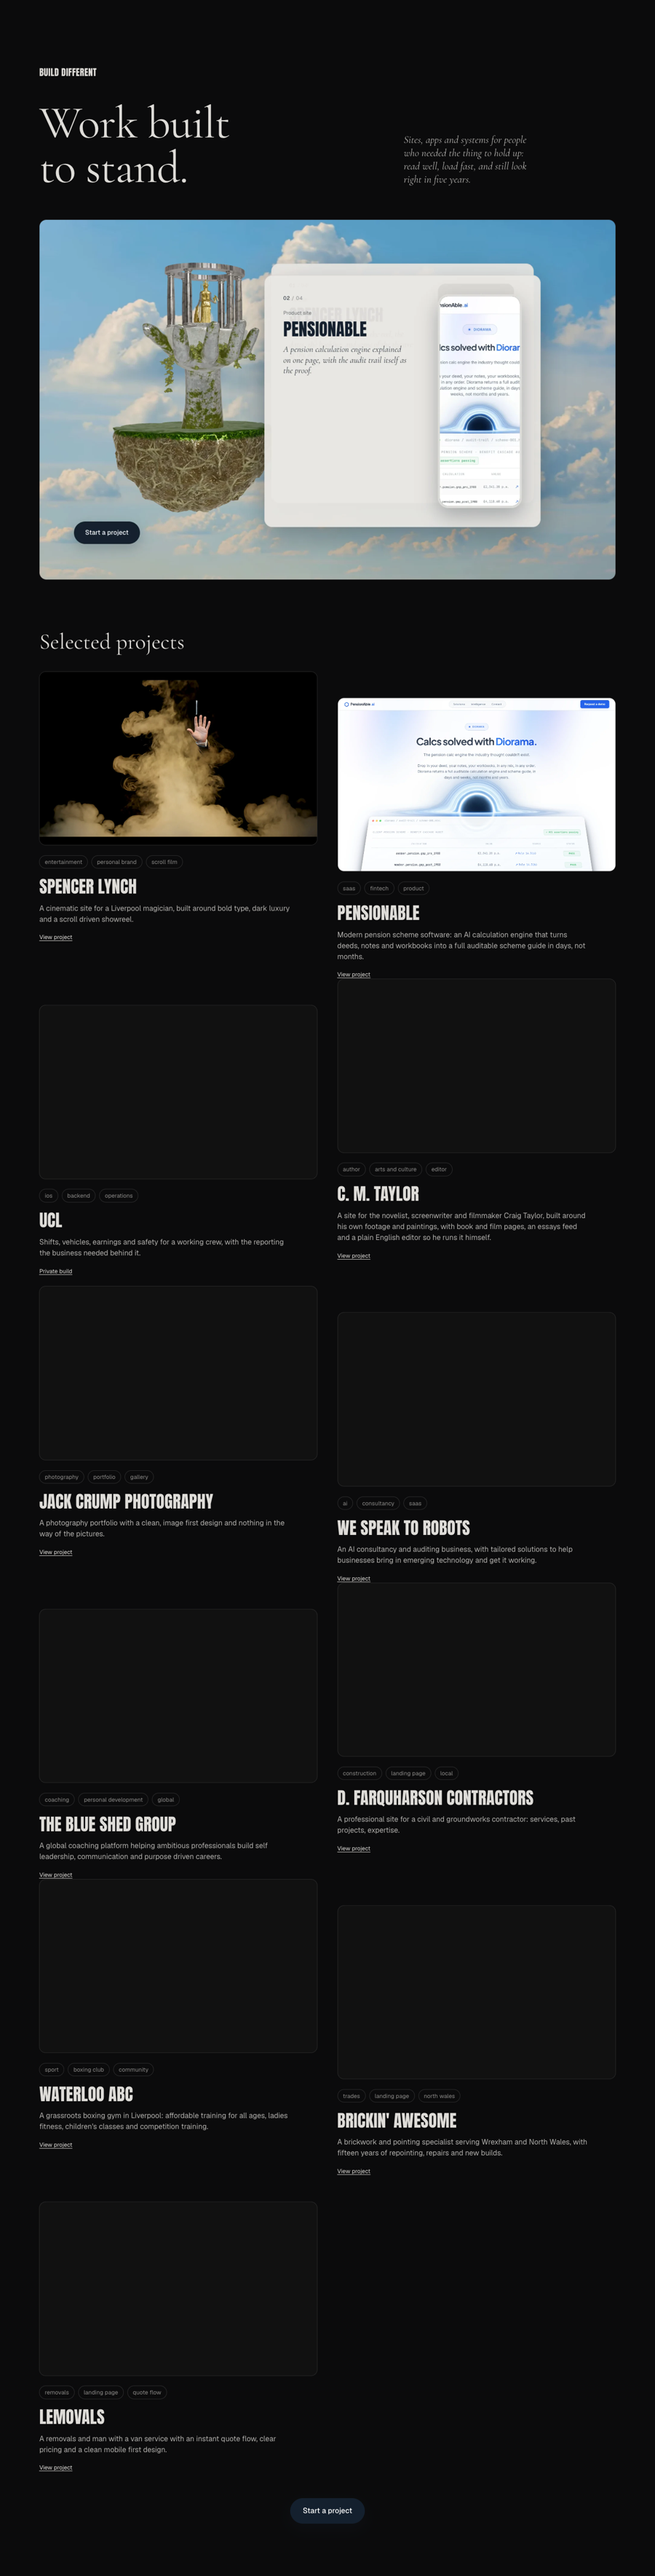
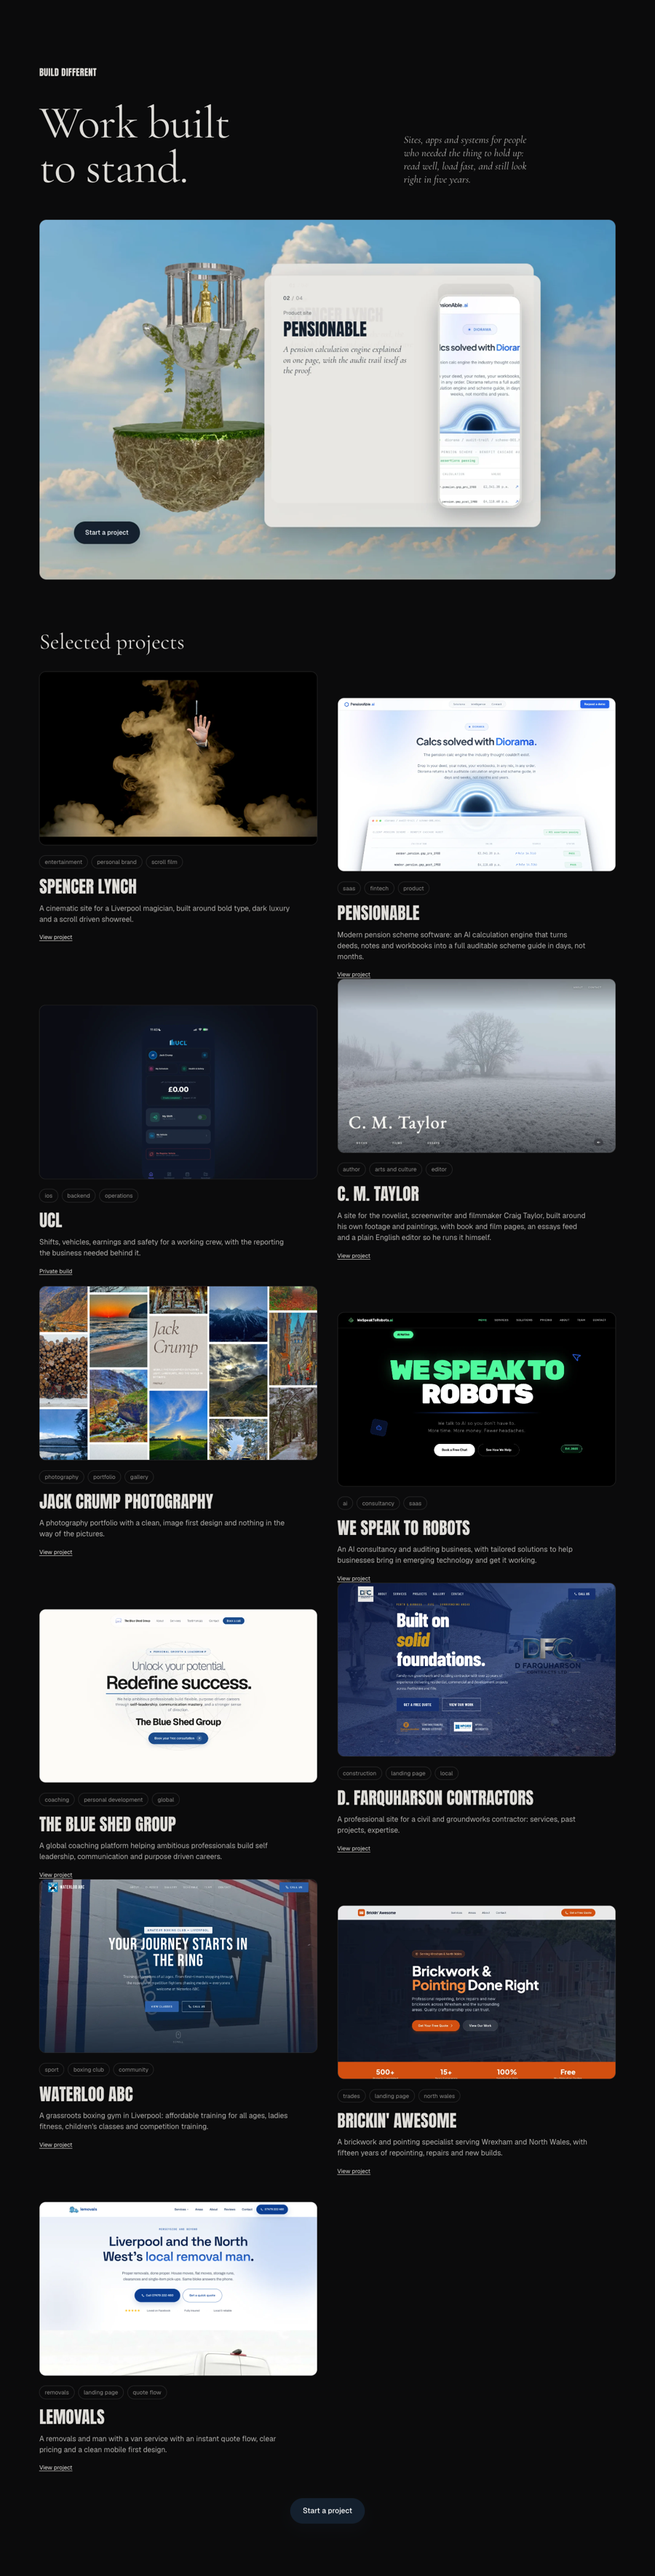
Work page: UCL composed as a landscape preview, grid images load eagerly
Claude-Session: https://claude.ai/code/session_01NAdPXLUXCGhh82qBsMYyAh

diff --git a/src/portal/work.ts b/src/portal/work.ts
@@ -14,7 +14,7 @@ export type Project = {
 export const ALL_PROJECTS: Project[] = [
   { slug: "spencer-lynch", name: "Spencer Lynch", kind: "Website", tags: ["entertainment", "personal brand", "scroll film"], line: "A cinematic site for a Liverpool magician, built around bold type, dark luxury and a scroll driven showreel.", image: "/images/work/spencer-lynch.webp", site: "/images/work/sites/spencer-lynch.webp", alt: "Spencer Lynch site: How did he do that?", url: "https://howdidhedothat.co.uk/" },
   { slug: "pensionable", name: "PensionAble", kind: "Product site", tags: ["saas", "fintech", "product"], line: "Modern pension scheme software: an AI calculation engine that turns deeds, notes and workbooks into a full auditable scheme guide in days, not months.", image: "/images/work/pensionable.webp", site: "/images/work/sites/pensionable.webp", alt: "PensionAble site: calcs solved with Diorama", url: "https://pensionable.ai/" },
-  { slug: "ucl", name: "UCL", kind: "iOS app and backend", tags: ["ios", "backend", "operations"], line: "Shifts, vehicles, earnings and safety for a working crew, with the reporting the business needed behind it.", image: "/images/work/ucl.webp", site: "/images/work/ucl.webp", alt: "UCL app home screen", url: "" },
+  { slug: "ucl", name: "UCL", kind: "iOS app and backend", tags: ["ios", "backend", "operations"], line: "Shifts, vehicles, earnings and safety for a working crew, with the reporting the business needed behind it.", image: "/images/work/ucl.webp", site: "/images/work/sites/ucl.webp", alt: "UCL app home screen", url: "" },
   { slug: "cm-taylor", name: "C. M. Taylor", kind: "Website", tags: ["author", "arts and culture", "editor"], line: "A site for the novelist, screenwriter and filmmaker Craig Taylor, built around his own footage and paintings, with book and film pages, an essays feed and a plain English editor so he runs it himself.", image: "/images/work/cm-taylor.webp", site: "/images/work/sites/cm-taylor.webp", alt: "C. M. Taylor site", url: "https://cmtaylorstory.com/" },
   { slug: "jack-crump", name: "Jack Crump Photography", kind: "Portfolio site", tags: ["photography", "portfolio", "gallery"], line: "A photography portfolio with a clean, image first design and nothing in the way of the pictures.", image: "/images/work/jack-crump.webp", site: "/images/work/sites/jack-crump.webp", alt: "Jack Crump photography site", url: "https://jackcrump.com/" },
   { slug: "we-speak-to-robots", name: "We Speak to Robots", kind: "Website", tags: ["ai", "consultancy", "saas"], line: "An AI consultancy and auditing business, with tailored solutions to help businesses bring in emerging technology and get it working.", image: "", site: "/images/work/sites/we-speak-to-robots.webp", alt: "We Speak to Robots site", url: "https://wespeaktorobots.ai/" },

diff --git a/src/app/work/page.tsx b/src/app/work/page.tsx
@@ -20,7 +20,7 @@ export default function WorkPage() {
           <li key={p.slug} className="wp__card">
             <a className="wp__link" href={p.url || "#"} target={p.url ? "_blank" : undefined} rel={p.url ? "noreferrer" : undefined}>
               <figure className="wp__preview">
-                <img src={p.site} alt={p.alt} loading="lazy" width={1440} height={900} />
+                <img src={p.site} alt={p.alt} width={1440} height={900} />
                 <span className="wp__view" aria-hidden="true">View</span>
               </figure>
               <ul className="wp__tags" aria-label="Tags">
